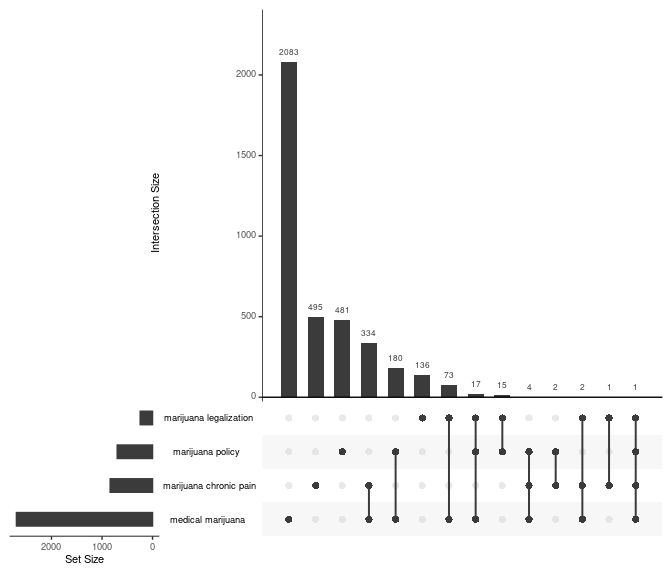
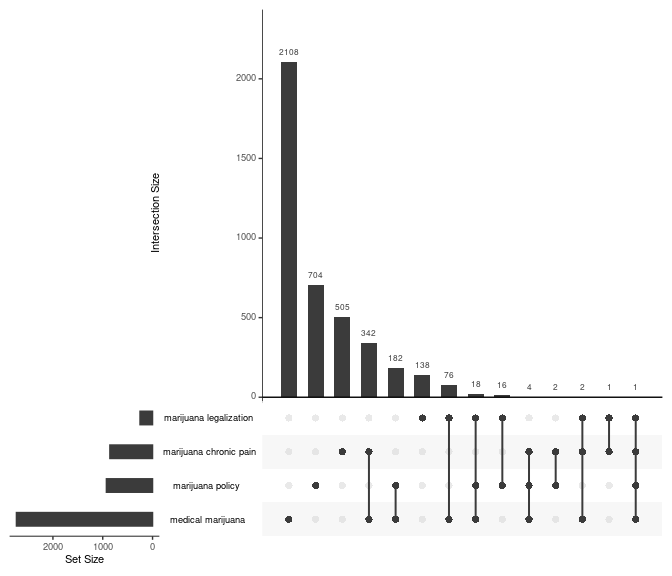
re

diff --git a/README.md b/README.md
@@ -5,7 +5,7 @@ status](https://app.travis-ci.com/jaytimm/pubmedr.svg?branch=main)](https://app.
 [![R-CMD-check](https://github.com/jaytimm/pubmedr/workflows/R-CMD-check/badge.svg)](https://github.com/jaytimm/pubmedr/actions)
 <!-- badges: end -->
 
-*Updated: 2022-11-17*
+*Updated: 2022-12-28*
 
 # pubmedr
 
@@ -19,11 +19,12 @@ Central](https://www.ncbi.nlm.nih.gov/research/pubtator/).
 -   [pubmedr](#pubmedr)
     -   [Installation](#installation)
     -   [PubMed search](#pubmed-search)
-    -   [Multiple search terms](#multiple-search-terms)
+        -   [Basic search](#basic-search)
+        -   [Multiple search terms](#multiple-search-terms)
     -   [Retrieve and parse abstract
         data](#retrieve-and-parse-abstract-data)
-    -   [MeSH Annotations](#mesh-annotations)
-    -   [Affiliations](#affiliations)
+        -   [MeSH Annotations](#mesh-annotations)
+        -   [Affiliations](#affiliations)
     -   [Citation data](#citation-data)
         -   [Summary data](#summary-data)
         -   [Network data](#network-data)
@@ -33,6 +34,7 @@ Central](https://www.ncbi.nlm.nih.gov/research/pubtator/).
         -   [Load list of Open Access PMC
             articles](#load-list-of-open-access-pmc-articles)
         -   [Extract full text articles](#extract-full-text-articles)
+    -   [MeSH extensions](#mesh-extensions)
 
 ## Installation
 
@@ -43,6 +45,8 @@ devtools::install_github("jaytimm/pubmedr")
 ```
 
 ## PubMed search
+
+### Basic search
 
 The `pmed_search_pubmed()` function is meant for record-matching
 searches typically performed using the [PubMed online
@@ -55,21 +59,21 @@ med_cannabis <- pubmedr::pmed_search_pubmed(search_term = 'medical marijuana',
                                             fields = c('TIAB','MH'))
 ```
 
-    ## [1] "medical marijuana[TIAB] OR medical marijuana[MH]: 2694 records"
+    ## [1] "medical marijuana[TIAB] OR medical marijuana[MH]: 2733 records"
 
 ``` r
 head(med_cannabis)
 ```
 
     ##          search_term     pmid
-    ## 1: medical marijuana 36367871
-    ## 2: medical marijuana 36367574
-    ## 3: medical marijuana 36342719
-    ## 4: medical marijuana 36335085
-    ## 5: medical marijuana 36305815
-    ## 6: medical marijuana 36296511
+    ## 1: medical marijuana 36555842
+    ## 2: medical marijuana 36535680
+    ## 3: medical marijuana 36529730
+    ## 4: medical marijuana 36514481
+    ## 5: medical marijuana 36484587
+    ## 6: medical marijuana 36484580
 
-## Multiple search terms
+### Multiple search terms
 
 ``` r
 cannabis_etc <- pubmedr::pmed_search_pubmed(
@@ -80,10 +84,10 @@ cannabis_etc <- pubmedr::pmed_search_pubmed(
   fields = c('TIAB','MH'))
 ```
 
-    ## [1] "marijuana chronic pain[TIAB] OR marijuana chronic pain[MH]: 839 records"
-    ## [1] "marijuana legalization[TIAB] OR marijuana legalization[MH]: 245 records"
-    ## [1] "marijuana policy[TIAB] OR marijuana policy[MH]: 700 records"
-    ## [1] "medical marijuana[TIAB] OR medical marijuana[MH]: 2694 records"
+    ## [1] "marijuana chronic pain[TIAB] OR marijuana chronic pain[MH]: 857 records"
+    ## [1] "marijuana legalization[TIAB] OR marijuana legalization[MH]: 252 records"
+    ## [1] "marijuana policy[TIAB] OR marijuana policy[MH]: 927 records"
+    ## [1] "medical marijuana[TIAB] OR medical marijuana[MH]: 2733 records"
 
 ``` r
 UpSetR::upset(UpSetR::fromList(split(cannabis_etc$pmid,
@@ -100,9 +104,9 @@ For quicker abstract retrieval, be sure to get an [API
 key](https://support.nlm.nih.gov/knowledgebase/article/KA-03521/en-us).
 
 ``` r
-med_cannabis_df <- pubmedr::pmed_get_records2(pmids = unique(med_cannabis$pmid)[1:10], 
+med_cannabis_df <- pubmedr::pmed_get_records2(pmids = unique(med_cannabis$pmid)[1:100], 
                                               with_annotations = T,
-                                              #cores = 5, 
+                                              # cores = 5, 
                                               ncbi_key = key) 
 ```
 
@@ -118,31 +122,31 @@ list(pmid = med_cannabis_df0$pmid[n],
 ```
 
     ## $pmid
-    ## [1] "36367871"
+    ## [1] "36555842"
     ## 
     ## $year
     ## [1] "2022"
     ## 
     ## $journal
-    ## [1] "PloS one"
+    ## [1] "International journal of molecular sciences"
     ## 
     ## $articletitle
-    ## [1] "From growers to patients: Multi-stakeholder views on the"
-    ## [2] "use of, and access to medicinal cannabis in Australia."  
+    ## [1] "Dysmenorrhoea: Can Medicinal Cannabis Bring New Hope for a"
+    ## [2] "Collective Group of Women Suffering in Pain, Globally?"    
     ## 
     ## $abstract
-    ##  [1] "Patient interest in the use of cannabis-based medicines"    
-    ##  [2] "(CBMs) has increased in Australia. While recent policy and" 
-    ##  [3] "legislative changes have enabled health practitioners to"   
-    ##  [4] "prescribe CBMs for their patients, many patients still"     
-    ##  [5] "struggle to access CBMs. This paper employed a thematic"    
-    ##  [6] "analysis to submissions made to a 2019 Australian"          
-    ##  [7] "government inquiry into current barriers of patient access" 
-    ##  [8] "to medical cannabis. We identified 121 submissions from"    
-    ##  [9] "patients or family members (n = 63), government bodies (n ="
-    ## [10] "5), non-government organisations (i.e., professional health"
+    ##  [1] "Dysmenorrhoea effects up to 90% of women of reproductive"   
+    ##  [2] "age, with medical management options including"             
+    ##  [3] "over-the-counter analgesia or hormonal contraception. There"
+    ##  [4] "has been a recent surge in medicinal cannabis research and" 
+    ##  [5] "its analgesic properties. This paper aims to critically"    
+    ##  [6] "investigate the current research of medicinal cannabis for" 
+    ##  [7] "pain relief and to discuss its potential application to"    
+    ##  [8] "treat dysmenorrhoea. Relevant keywords, including medicinal"
+    ##  [9] "cannabis, pain, cannabinoids, tetrahydrocannabinol,"        
+    ## [10] "dysmenorrhoea, and clinical trial, have been searched in"
 
-## MeSH Annotations
+### MeSH Annotations
 
 > Annotations are included as a list-column, and can be easily
 > extracted:
@@ -158,20 +162,20 @@ annotations |>
   knitr::kable()
 ```
 
-| ID       | TYPE      | FORM                     |
-|:---------|:----------|:-------------------------|
-| 36367871 | MeSH      | Humans                   |
-| 36367871 | MeSH      | Medical Marijuana        |
-| 36367871 | MeSH      | Australia                |
-| 36367871 | MeSH      | Cannabis                 |
-| 36367871 | MeSH      | Family                   |
-| 36367871 | MeSH      | Drug Industry            |
-| 36367871 | Chemistry | Medical Marijuana        |
-| 36367574 | Keyword   | diffusion tensor imaging |
-| 36367574 | Keyword   | fractional anisotropy    |
-| 36367574 | Keyword   | mean diffusivity         |
+| ID       | TYPE      | FORM              |
+|:---------|:----------|:------------------|
+| 36555842 | MeSH      | Female            |
+| 36555842 | MeSH      | Humans            |
+| 36555842 | MeSH      | Dysmenorrhea      |
+| 36555842 | MeSH      | Medical Marijuana |
+| 36555842 | MeSH      | Cannabinoids      |
+| 36555842 | MeSH      | Dronabinol        |
+| 36555842 | MeSH      | Analgesics        |
+| 36555842 | MeSH      | Cannabis          |
+| 36555842 | Chemistry | Medical Marijuana |
+| 36555842 | Chemistry | Cannabinoids      |
 
-## Affiliations
+### Affiliations
 
 The `pmed_get_affiliations` function extracts author and author
 affiliation information from PubMed records.
@@ -183,18 +187,18 @@ pubmedr::pmed_get_affiliations(pmids = med_cannabis_df0$pmid) |>
   knitr::kable()
 ```
 
-| pmid     | Author                   | Affiliation                                                                                                                            |
-|:----|:----------|:-------------------------------------------------------|
-| 36367871 | Erku, Daniel             | Centre for Applied Health Economics, School of Medicine, Griffith University, Brisbane, Australia.                                     |
-| 36367871 | Erku, Daniel             | Menzies Health Institute Queensland, Griffith University, Gold Coast, Australia.                                                       |
-| 36367871 | Greenwood, Lisa-Marie    | Research School of Psychology, The Australian National University, Canberra, ACT, Australia.                                           |
-| 36367871 | Graham, Myfanwy          | Australian Centre for Cannabinoid Clinical and Research Excellence, University of Newcastle, Newcastle, Australia.                     |
-| 36367871 | Graham, Myfanwy          | Centre for Drug Repurposing & Medicines Research, School of Medicine and Public Health, University of Newcastle, Newcastle, Australia. |
-| 36367871 | Hallinan, Christine Mary | Department of General Practice, Faculty Dentistry Medicine and Health Science, University of Melbourne, Melbourne, Australia.          |
-| 36367871 | Bartschi, Jessica G      | Australian Centre for Cannabinoid Clinical and Research Excellence, University of Newcastle, Newcastle, Australia.                     |
-| 36367871 | Bartschi, Jessica G      | School of Psychology, Faculty of the Arts, Social Sciences and Humanities, University of Wollongong, Wollongong, Australia.            |
-| 36367871 | Bartschi, Jessica G      | Illawarra Health and Medical Research Institute, University of Wollongong, Wollongong, Australia.                                      |
-| 36367871 | Renaud, Elianne          | Australian Centre for Cannabinoid Clinical and Research Excellence, University of Newcastle, Newcastle, Australia.                     |
+| pmid     | Author              | Affiliation                                                                                                                            |
+|:----|:---------|:--------------------------------------------------------|
+| 36555842 | Seifalian, Amelia   | Department of Urogynaecology, St. Mary’s Hospital, Imperial College London, London W2 1NY, UK.                                         |
+| 36555842 | Kenyon, Julian      | The Dove Clinic for Integrated Medicine, Winchester SO21 1RG, UK.                                                                      |
+| 36555842 | Khullar, Vik        | Department of Urogynaecology, St. Mary’s Hospital, Imperial College London, London W2 1NY, UK.                                         |
+| 36455395 | Smart, Rosanna      | AND Corporation, United States of America.                                                                                             |
+| 36455395 | Doremus, Jacqueline | California Polytechnic State University, San Luis Obispo, United States of America.                                                    |
+| 36454553 | Bao, Yuhua          | Department of Population Health Sciences, Weill Cornell Medicine, New York, New York.                                                  |
+| 36454553 | Bao, Yuhua          | Department of Psychiatry, Weill Cornell Medicine, New York, New York.                                                                  |
+| 36454553 | Zhang, Hao          | Department of Population Health Sciences, Weill Cornell Medicine, New York, New York.                                                  |
+| 36454553 | Bruera, Eduardo     | Department of Palliative, Rehabilitation, and Integrative Medicine, The University of Texas MD Anderson Cancer Center, Houston, Texas. |
+| 36454553 | Portenoy, Russell   | JHS Institute for Innovation in Palliative Care, New York, New York.                                                                   |
 
 ## Citation data
 
@@ -214,37 +218,37 @@ record.
 
 ``` r
 citations <- pubmedr::pmed_get_icites(pmids = med_cannabis_df0$pmid, 
-                                      cores = 6,
+                                      #cores = 6,
                                       ncbi_key = key)
 
 c0 <- citations |> select(-citation_net) |> slice(4)
 setNames(data.frame(t(c0[,-1])), c0[,1]) |> knitr::kable()
 ```
 
-|                             | 36292471                                                                                                                                                                 |
-|:----------|:------------------------------------------------------------|
-| year                        | 2022                                                                                                                                                                     |
-| title                       | Paroxysmal Sustained Ventricular Tachycardia with Cardiac Arrest and Myocardial Infarction in 29-Year-Old Man Addicted to Medical Marijuana-It Never Rains but It Pours. |
-| authors                     | Jerzy Wiliński, Anna Skwarek, Iwona Chrzan, Aleksander Zeliaś, Radosław Borek, Dominika Elżbieta Dykla, Maria Bober-Fotopoulos, Dariusz Dudek                            |
-| journal                     | Healthcare (Basel)                                                                                                                                                       |
-| is_research_article         | Yes                                                                                                                                                                      |
-| relative_citation_ratio     | NA                                                                                                                                                                       |
-| nih_percentile              | NA                                                                                                                                                                       |
-| human                       | 0.67                                                                                                                                                                     |
-| animal                      | 0.33                                                                                                                                                                     |
-| molecular_cellular          | 0                                                                                                                                                                        |
-| apt                         | 0.05                                                                                                                                                                     |
-| is_clinical                 | No                                                                                                                                                                       |
-| citation_count              | 0                                                                                                                                                                        |
-| citations_per_year          | 0                                                                                                                                                                        |
-| expected_citations_per_year | NA                                                                                                                                                                       |
-| field_citation_rate         | NA                                                                                                                                                                       |
-| provisional                 | No                                                                                                                                                                       |
-| x_coord                     | 0.2886751                                                                                                                                                                |
-| y_coord                     | 0.5                                                                                                                                                                      |
-| cited_by_clin               | NA                                                                                                                                                                       |
-| doi                         | 10.3390/healthcare10102024                                                                                                                                               |
-| ref_count                   | 0                                                                                                                                                                        |
+|                             | 35866679                                                                                                                                                       |
+|:-----------|:-----------------------------------------------------------|
+| year                        | 2022                                                                                                                                                           |
+| title                       | Incidence and Predictors of Cannabis-Related Poisoning and Mental and Behavioral Disorders among Patients with Medical Cannabis Authorization: A Cohort Study. |
+| authors                     | Arsene Zongo, Cerina Lee, Jason R B Dyck, Jihane El-Mourad, Elaine Hyshka, John G Hanlon, Dean T Eurich                                                        |
+| journal                     | Subst Use Misuse                                                                                                                                               |
+| is_research_article         | Yes                                                                                                                                                            |
+| relative_citation_ratio     | NA                                                                                                                                                             |
+| nih_percentile              | NA                                                                                                                                                             |
+| human                       | 0.5                                                                                                                                                            |
+| animal                      | 0.5                                                                                                                                                            |
+| molecular_cellular          | 0                                                                                                                                                              |
+| apt                         | 0.05                                                                                                                                                           |
+| is_clinical                 | No                                                                                                                                                             |
+| citation_count              | 0                                                                                                                                                              |
+| citations_per_year          | 0                                                                                                                                                              |
+| expected_citations_per_year | NA                                                                                                                                                             |
+| field_citation_rate         | NA                                                                                                                                                             |
+| provisional                 | No                                                                                                                                                             |
+| x_coord                     | 0.4330127                                                                                                                                                      |
+| y_coord                     | 0.25                                                                                                                                                           |
+| cited_by_clin               | NA                                                                                                                                                             |
+| doi                         | 10.1080/10826084.2022.2102193                                                                                                                                  |
+| ref_count                   | 27                                                                                                                                                             |
 
 ### Network data
 
@@ -256,12 +260,12 @@ citations$citation_net[[1]] |> head()
 ```
 
     ##        from       to
-    ## 1: 36226444 12648025
-    ## 2: 36226444 33008420
-    ## 3: 36226444 27001005
-    ## 4: 36226444 31207470
-    ## 5: 36226444 34676347
-    ## 6: 36226444 21858958
+    ## 1: 35821596 30010351
+    ## 2: 35821596 29349253
+    ## 3: 35821596 35196883
+    ## 4: 35821596 35618659
+    ## 5: 35821596 31786435
+    ## 6: 35821596 31296507
 
 ## Biomedical concepts via the Pubtator Central API
 
@@ -277,28 +281,28 @@ pubtations <- unique(med_cannabis$pmid)[1:10] |>
 pubtations |> na.omit() |> slice(1:20) |> knitr::kable()
 ```
 
-| pmid     | tiab     | id  | text                         | identifier   | type     | offset | length |
-|:-------|:-------|:---|:----------------------|:----------|:-------|:------|:------|
-| 36367871 | title    | 1   | patients                     | 9606         | Species  | 16     | 8      |
-| 36367871 | abstract | 11  | Patient                      | 9606         | Species  | 124    | 7      |
-| 36367871 | abstract | 12  | patients                     | 9606         | Species  | 321    | 8      |
-| 36367871 | abstract | 13  | patients                     | 9606         | Species  | 336    | 8      |
-| 36367871 | abstract | 14  | patient                      | 9606         | Species  | 501    | 7      |
-| 36367871 | abstract | 15  | patients                     | 9606         | Species  | 581    | 8      |
-| 36367871 | abstract | 16  | patient                      | 9606         | Species  | 1040   | 7      |
-| 36367871 | abstract | 17  | patients                     | 9606         | Species  | 1410   | 8      |
-| 36367871 | abstract | 18  | patients                     | 9606         | Species  | 1693   | 8      |
-| 36367871 | abstract | 19  | patient                      | 9606         | Species  | 2086   | 7      |
-| 36367574 | abstract | 13  | abnormal white matter        | MESH:D056784 | Disease  | 142    | 21     |
-| 36367574 | abstract | 14  | patients                     | 9606         | Species  | 626    | 8      |
-| 36367574 | abstract | 15  | anterior corona radiata      | MESH:C537775 | Disease  | 1078   | 23     |
-| 36367574 | abstract | 16  | patients                     | 9606         | Species  | 1191   | 8      |
-| 36367574 | abstract | 17  | patients                     | 9606         | Species  | 1558   | 8      |
-| 36367574 | abstract | 18  | patients                     | 9606         | Species  | 1638   | 8      |
-| 36367574 | abstract | 19  | cannabidiol                  | MESH:D002185 | Chemical | 1790   | 11     |
-| 36367574 | abstract | 20  | CBD                          | MESH:C546797 | Chemical | 1803   | 3      |
-| 36367574 | abstract | 21  | Delta-9-tetrahydrocannabinol | MESH:D013759 | Chemical | 1825   | 28     |
-| 36367574 | abstract | 22  | patients                     | 9606         | Species  | 2099   | 8      |
+| pmid     | tiab     | id  | text                 | identifier      | type     | start |  end |
+|:--------|:--------|:---|:-----------------|:-------------|:--------|-----:|-----:|
+| 36555842 | title    | 4   | Women                | 9606            | Species  |    79 |   84 |
+| 36555842 | title    | 5   | Pain                 | MESH:D010146    | Disease  |    98 |  102 |
+| 36555842 | abstract | 21  | women                | 9606            | Species  |   149 |  154 |
+| 36555842 | abstract | 22  | analgesia            | MESH:D000699    | Disease  |   235 |  244 |
+| 36555842 | abstract | 23  | pain                 | MESH:D010146    | Disease  |   452 |  456 |
+| 36555842 | abstract | 25  | pain                 | MESH:D010146    | Disease  |   578 |  582 |
+| 36555842 | abstract | 26  | tetrahydrocannabinol | MESH:D013759    | Chemical |   598 |  618 |
+| 36555842 | abstract | 28  | pain                 | MESH:D010146    | Disease  |  1026 | 1030 |
+| 36555842 | abstract | 29  | pain                 | MESH:D010146    | Disease  |  1126 | 1130 |
+| 36555842 | abstract | 30  | nausea               | MESH:D009325    | Disease  |  1390 | 1396 |
+| 36555842 | abstract | 31  | drowsiness           | MESH:D006970    | Disease  |  1398 | 1408 |
+| 36555842 | abstract | 32  | dry mouth            | MESH:D014987    | Disease  |  1414 | 1423 |
+| 36529730 | abstract | 12  | patient              | 9606            | Species  |  1042 | 1049 |
+| 36529730 | abstract | 13  | patients             | 9606            | Species  |  1153 | 1161 |
+| 36529730 | abstract | 14  | cancer pain          | MESH:D000072716 | Disease  |  1276 | 1287 |
+| 36529730 | abstract | 15  | nausea               | MESH:D009325    | Disease  |  1310 | 1316 |
+| 36529730 | abstract | 16  | vomiting             | MESH:D014839    | Disease  |  1321 | 1329 |
+| 36529730 | abstract | 17  | epilepsy             | MESH:D004827    | Disease  |  1335 | 1343 |
+| 36529730 | abstract | 18  | depression           | MESH:D000275    | Disease  |  1426 | 1436 |
+| 36529730 | abstract | 19  | anxiety              | MESH:D001007    | Disease  |  1438 | 1445 |
 
 ## Full text from Open Acess PMC
 
@@ -326,7 +330,8 @@ med_cannabis_fulltexts <- pmc_med_cannabis$fpath[1] |>
   pubmedr::pmed_get_fulltext()
   #pubmedr::pmed_get_fulltext()
 
-samp <- med_cannabis_fulltexts |> filter(pmcid %in% pmc_med_cannabis$PMCID[1])
+samp <- med_cannabis_fulltexts |> 
+  filter(pmcid %in% pmc_med_cannabis$PMCID[1])
 
 lapply(samp$text, function(x){strwrap(x, width = 60)[1:3]})
 ```
@@ -365,3 +370,5 @@ lapply(samp$text, function(x){strwrap(x, width = 60)[1:3]})
     ## [1] "Competing interests The author is the founder and director"
     ## [2] "of the Vancouver Island Compassion Society, and receives a"
     ## [3] "salary from this organization for research, communications"
+
+## MeSH extensions
